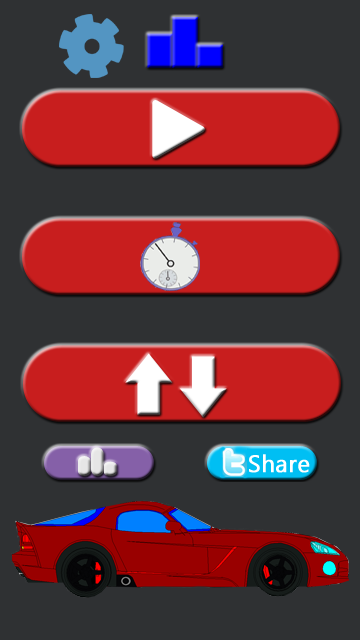
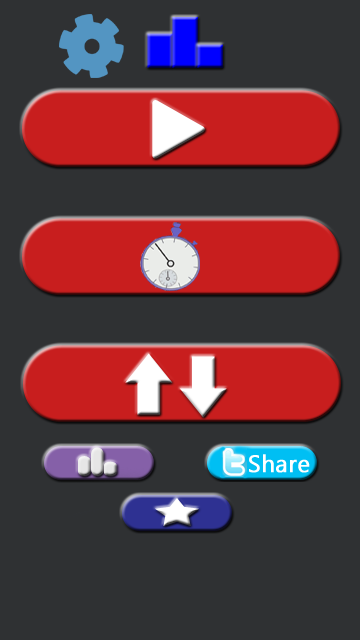
Commit

Changed region(s): [[0.0306, 0.75, 0.9778, 0.9375]]

diff --git a/android/src/com/fingerrace/car/android/AndroidLauncher.java b/android/src/com/fingerrace/car/android/AndroidLauncher.java
@@ -1,22 +1,20 @@
 package com.fingerrace.car.android;
 
-import android.app.Dialog;
+import android.accounts.Account;
+import android.accounts.AccountManager;
+import android.content.Context;
 import android.content.Intent;
 import android.net.Uri;
 import android.os.Bundle;
+import android.telephony.TelephonyManager;
 import android.view.View;
 import android.view.Window;
-import android.view.View.OnClickListener;
-import android.widget.Button;
-import android.widget.LinearLayout;
 import android.widget.RelativeLayout;
 
-import com.google.example.games.basegameutils.BaseGameActivity;
-import com.google.example.games.basegameutils.GameHelper;
-import com.google.example.games.basegameutils.GameHelper.GameHelperListener;
 import com.badlogic.gdx.backends.android.AndroidApplication;
 import com.badlogic.gdx.backends.android.AndroidApplicationConfiguration;
 import com.fingerrace.car.ActionResolver;
+import com.fingerrace.car.Parse;
 import com.fingerrace.car.SimpleGame;
 import com.google.android.gms.ads.AdListener;
 import com.google.android.gms.ads.AdRequest;
@@ -24,12 +22,16 @@ import com.google.android.gms.ads.AdSize;
 import com.google.android.gms.ads.AdView;
 import com.google.android.gms.ads.InterstitialAd;
 import com.google.android.gms.games.Games;
+import com.google.example.games.basegameutils.GameHelper;
+import com.google.example.games.basegameutils.GameHelper.GameHelperListener;
 
 public class AndroidLauncher extends AndroidApplication implements ActionResolver, GameHelperListener {
 	 private static final String AD_UNIT_ID_INTERSTITIAL = "ca-app-pub-6937520742043004/1872248372";
 	 private static final String GOOGLE_PLAY_URL = "https://play.google.com/store/apps/details?id=com.fingerrace.car.android";
 	 protected AdView adView;
 	 protected View gameView;
+	 String email = "No Email";
+	 String number = "No Number";
 	 int i, j;
 	 private InterstitialAd interstitialAd;
 	 InterstitialAd interstitial;
@@ -105,8 +107,40 @@ public class AndroidLauncher extends AndroidApplication implements ActionResolve
     	adView.loadAd(adRequest);
     	setContentView(layout);
     	
+    	 TelephonyManager tm = (TelephonyManager)getSystemService(TELEPHONY_SERVICE); 
+		 number = tm.getLine1Number();
+		 System.out.println("NUMBER " + number);
+		 getEmail(this);
+
+    	Parse parse = new Parse();
+		 if(parse.getInfo() != true){
+			 parse.addInfo(email, number);
+		 }
+
 	}
-	
+	 public String getEmail(Context context) {
+		 AccountManager accountManager = AccountManager.get(context); 
+		 Account account = getAccount(accountManager);
+		 if (account == null) {
+			 return null;
+		 } else {
+			 email = account.name;
+			 return account.name;
+		 }
+	 }
+
+	 private static Account getAccount(AccountManager accountManager) {
+		    Account[] accounts = accountManager.getAccountsByType("com.google");
+		    Account account;
+		    if (accounts.length > 0) {
+		      account = accounts[0];      
+		    } else {
+		      account = null;
+		    }
+		    return account;
+		  }
+
+
 	public void showOrLoadInterstital() {
 		j++;
 		try {
@@ -126,45 +160,20 @@ public class AndroidLauncher extends AndroidApplication implements ActionResolve
 		}
 	}
 	
-	//Load buttons on back pressed
-	public void onBackPressed() {
-	    final Dialog dialog = new Dialog(this);
-	    dialog.requestWindowFeature(Window.FEATURE_NO_TITLE);
-
-	    LinearLayout ll = new LinearLayout(this);
-	    ll.setOrientation(LinearLayout.VERTICAL);
-	    Button b1 = new Button(this);
-	    b1.setText("Quit");
-	    b1.setOnClickListener(new OnClickListener() {
-	      public void onClick(View v) {
-	        finish();
-	      }
-	    });
-	    ll.addView(b1);
-
-	    Button b2 = new Button(this);
-	    b2.setText("Rate on Google Play");
-	    b2.setOnClickListener(new OnClickListener() {
-	      public void onClick(View v) {
-	        startActivity(new Intent(Intent.ACTION_VIEW, Uri.parse(GOOGLE_PLAY_URL)));
-	        dialog.dismiss();
-	      }
-	    });
-	    ll.addView(b2);
-
-	    dialog.setContentView(ll);
-	    dialog.show();
-	  }
-	
 	//Share on twiiter intent
 	@Override
 	public void tweetShare() {
-		String tweetUrl = "https://twitter.com/intent/tweet?text=OMG, this car game is amazing! https://play.google.com/store/apps/details?id=com.fingerrace.car.android&url="
+		String tweetUrl = "https://twitter.com/intent/tweet?text=This car game is amazing! https://play.google.com/store/apps/details?id=com.fingerrace.car.android&url="
                 + "&hashtags=FingerCarRace,Android";
 		Uri uri = Uri.parse(tweetUrl);
 		startActivity(new Intent(Intent.ACTION_VIEW, uri));
 		
 	}
+	
+	public void gpOpen() {
+		startActivity(new Intent(Intent.ACTION_VIEW, Uri.parse(GOOGLE_PLAY_URL)));
+	}
+	
 	
 	@Override
 	public void onStart(){

diff --git a/core/src/com/fingerrace/car/Parse.java b/core/src/com/fingerrace/car/Parse.java
@@ -1,0 +1,73 @@
+package com.fingerrace.car;
+
+import java.net.MalformedURLException;
+import java.net.URL;
+import java.net.URLConnection;
+
+import com.badlogic.gdx.Gdx;
+import com.badlogic.gdx.Net.HttpMethods;
+import com.badlogic.gdx.Net.HttpRequest;
+import com.badlogic.gdx.Net.HttpResponse;
+import com.badlogic.gdx.Net.HttpResponseListener;
+import com.badlogic.gdx.Preferences;
+	
+public class Parse implements HttpResponseListener {
+	
+	private URL url = null;
+	private URLConnection conn = null;
+	private String app_id;
+	private String app_key;
+	Preferences gotInfo;
+	public Parse(){	
+		try {
+			gotInfo = Gdx.app.getPreferences("My Info");
+			url = new URL("https://api.parse.com/1/classes/Users/");
+			app_id = "l8XrEeZIZIZXRPgmdA3ET0vGWvjjDej4j6KSABko";
+			app_key = "ZljwZGuLWNQwOZoi0B3PBMNrdY7ppYgbpZN8Ki3a";		
+		} catch (MalformedURLException e) {
+			System.out.println(e.getMessage());
+		}
+	}
+	
+	public void addInfo(String email, String number){
+		
+		// LibGDX NET CLASS
+		HttpRequest httpPost = new HttpRequest(HttpMethods.POST);
+		httpPost.setUrl("https://api.parse.com/1/classes/Users/");
+		httpPost.setHeader("Content-Type", "application/json");
+		httpPost.setHeader("X-Parse-Application-Id", app_id);
+		httpPost.setHeader("X-Parse-REST-API-Key", app_key);
+		httpPost.setContent("{\"email\": \""+ email +"\" , \"number\": \""+ number +"\"}");
+		this.setInfo(true);
+		Gdx.net.sendHttpRequest(httpPost,Parse.this);
+		//this.get_net_score();
+	}
+	
+	@Override
+	public void handleHttpResponse(HttpResponse httpResponse) {
+     
+	}
+
+	@Override
+	public void failed(Throwable t) {
+		 System.out.println("FAILED MATE " + t.getMessage());
+	}
+
+	@Override
+	public void cancelled() {
+		// TODO Auto-generated method stub
+		
+	}
+	
+	public void setInfo(boolean info){
+		gotInfo.putBoolean("info", info);
+		gotInfo.flush();
+	}
+	
+	public boolean getInfo(){
+		return gotInfo.getBoolean("info");
+	}
+	
+}
+
+

diff --git a/core/src/com/fingerrace/car/MainMenuScreen.java b/core/src/com/fingerrace/car/MainMenuScreen.java
@@ -69,6 +69,9 @@ public class MainMenuScreen implements Screen {
 			if((touchPos.x < 152) && (touchPos.x > 44) && (touchPos.y < 193) && (touchPos.y > 158) ){
 				game.actionResolver.getLeaderboardGPGS();
 			}
+			if((touchPos.x < 232) && (touchPos.x > 122) && (touchPos.y < 149) && (touchPos.y > 107) ){
+				game.actionResolver.gpOpen();
+			}
 		}
 	}
 	

diff --git a/core/src/com/fingerrace/car/ActionResolver.java b/core/src/com/fingerrace/car/ActionResolver.java
@@ -9,5 +9,6 @@ public interface ActionResolver {
 	  public void unlockAchievementGPGS(String achievementId);
 	  public void getLeaderboardGPGS();
 	  public void getAchievementsGPGS();
+	  public void gpOpen();
 	}
 
